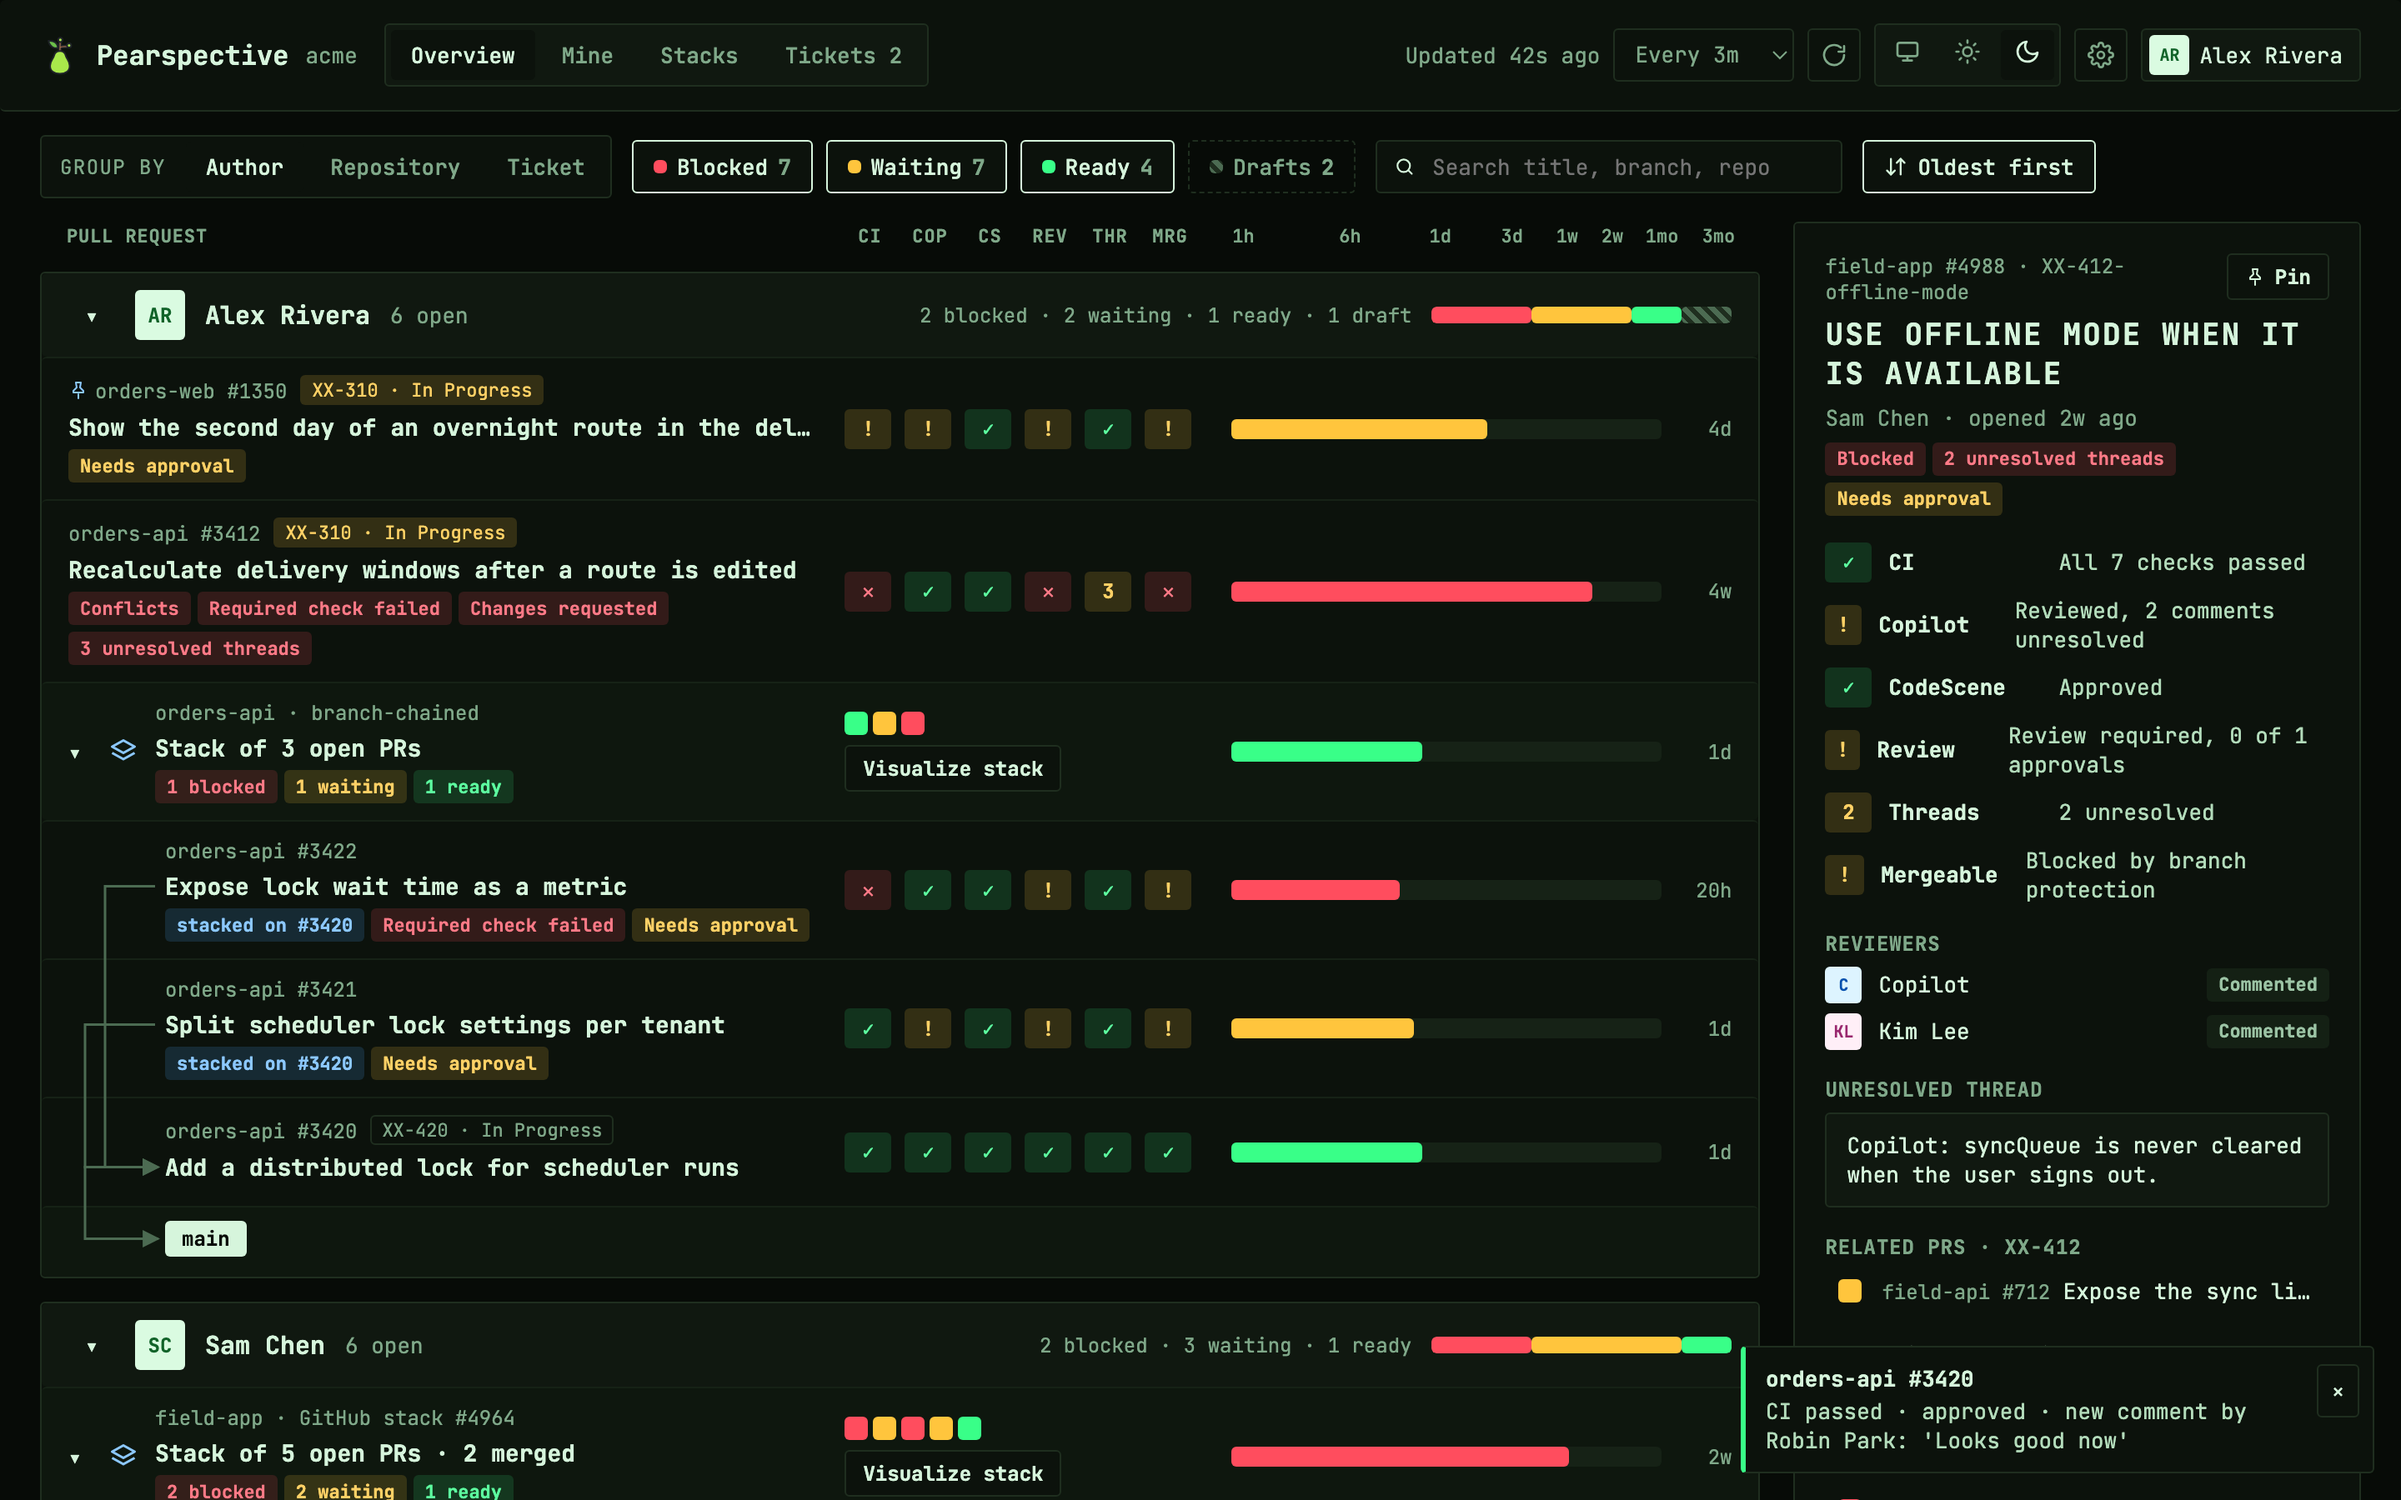
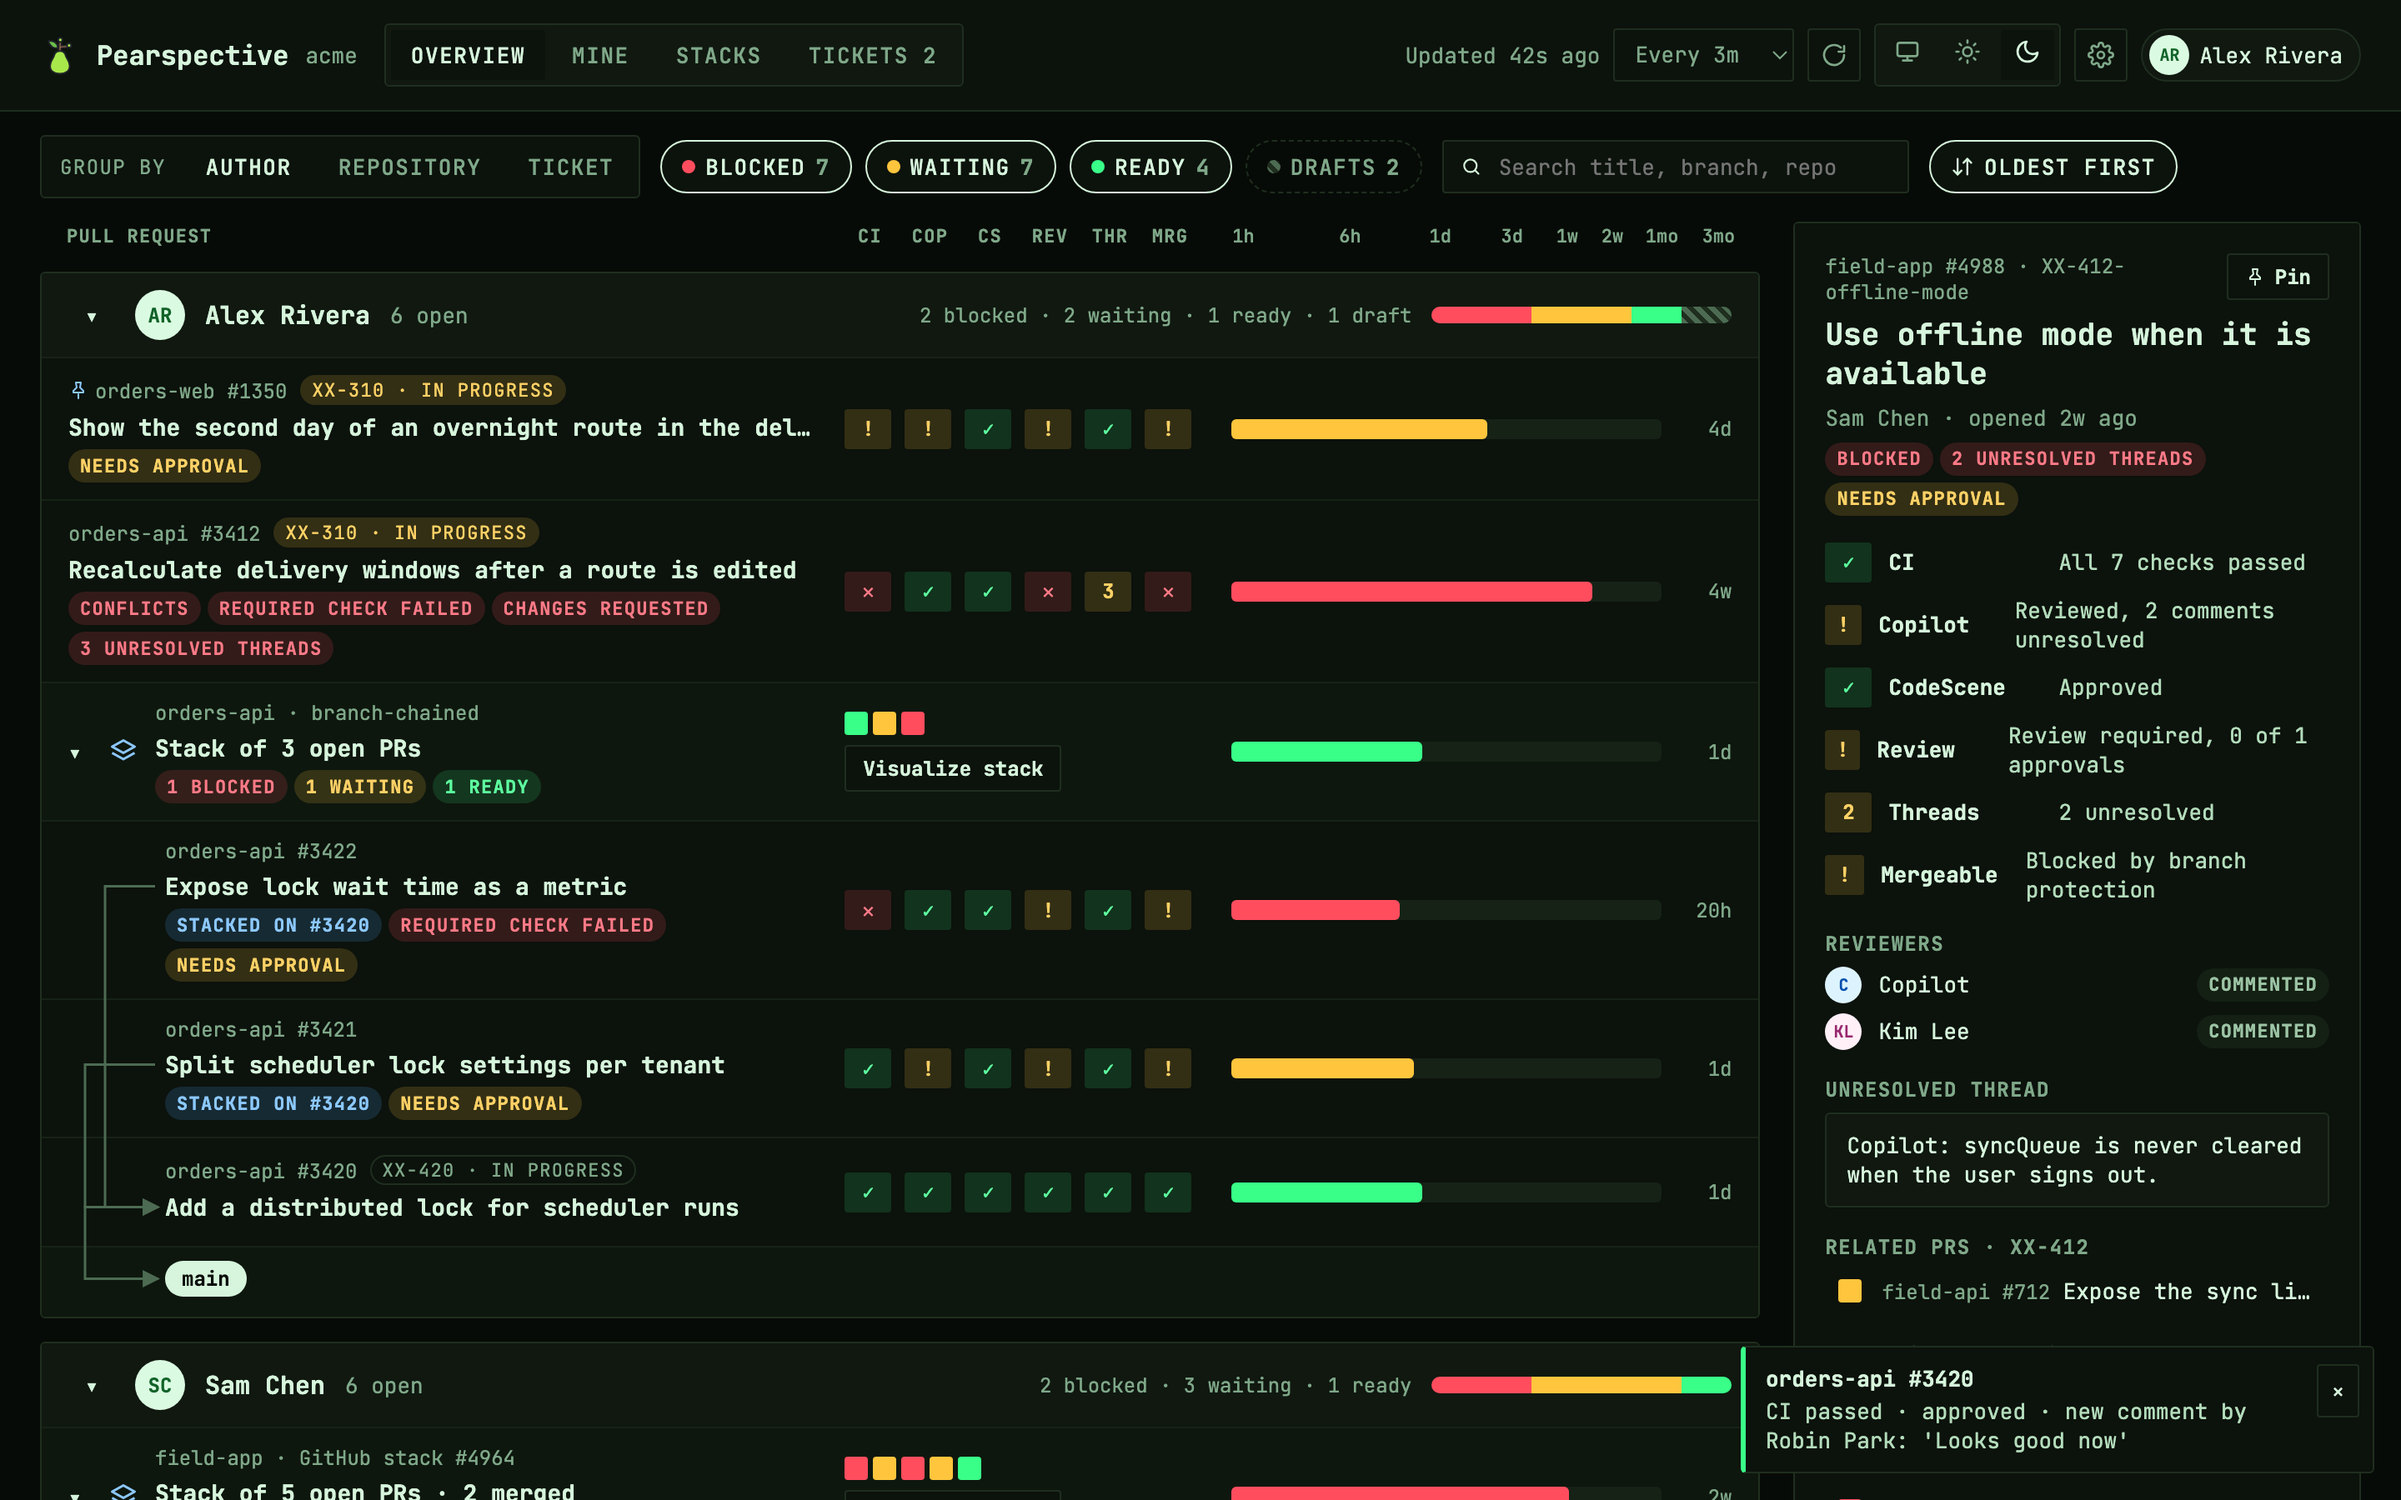
Make the Terminal mockup match the real theme, and tighten the README wording.

diff --git a/docs/mockup/overview-swimlanes.html b/docs/mockup/overview-swimlanes.html
@@ -164,8 +164,10 @@ if (new URLSearchParams(location.search).get('theme') === 'terminal') {
   --mono:'JetBrains Mono',ui-monospace,monospace;
 }
 body{font-family:'JetBrains Mono',ui-monospace,monospace;font-size:13px}
-*{border-radius:3px!important;box-shadow:none!important}
-.segs .lbl,th,h2,h3{text-transform:uppercase;letter-spacing:.06em}
+.lane,aside,.scard,dialog,.snip,.toast,.segs{border-radius:3px}
+.seg,select,.icon,.search,.btn,.dot,.mini,.pips i,.mini i,.legend i{border-radius:2px}
+dialog,.toast,.seg.on{box-shadow:none}
+.sec,.cols,.segs .lbl,.chip,.badge,.ticket-chip,.seg,.tab-count{text-transform:uppercase;letter-spacing:.06em}
 </style>`);
 }
 </script>

diff --git a/README.md b/README.md
@@ -142,11 +142,11 @@ Pearspective keeps its latest state (pull requests, checks, reviews, threads, ti
 
 ## Themes
 
-Pick a theme in the settings panel's **Appearance** tab. **Default** follows your light/dark setting; **Terminal** is dark only, with a monospace font and square corners.
+Pick a theme in the settings panel's **Appearance** tab. **Default** follows your light/dark setting; **Terminal** is dark only, with a monospace font and tighter corners.
 
 ![Terminal theme](docs/assets/screenshot-terminal.png)
 
-Make your own by putting a JSON file in the `themes/` folder next to `config.json` (it is created on the first start). Saving the file updates open tabs within a second.
+Make your own by putting a JSON file in the `themes/` folder next to `config.json` (it is created on the first start). Saving the file updates open tabs within a second. If your system can't watch the folder for changes, restart Pearspective to pick up edits.
 
 ```json
 {
@@ -158,10 +158,10 @@ Make your own by putting a JSON file in the `themes/` folder next to `config.jso
 ```
 
 - Anything you leave out comes from Default, so a theme can be a few lines.
-- `theme.schema.json` (copied into the folder) lets your editor autocomplete colour names and check the file. A broken file is listed in the picker with the problem and never breaks the page.
+- [`theme.schema.json`](themes/theme.schema.json) (copied into the folder) lets your editor autocomplete colour names and check the file. A broken file is listed in the picker with the problem and never breaks the page.
 - Themes set colours, fonts, font size, corner radii, border width, shadows and label casing; they cannot change the layout.
 - To use your own font, put the theme in a folder (`themes/calm/theme.json`) with its `.woff2` files beside it and list them under `fontFiles`. Fonts are served by Pearspective itself, never from the internet.
-- A file with the same name as a built-in theme (for example `default.json`) replaces it.
+- A file with the same name as a built-in theme (for example `default.json`) replaces it. The file name (lower-cased) is the theme's id.
 
 ## How it uses the GitHub API
 
